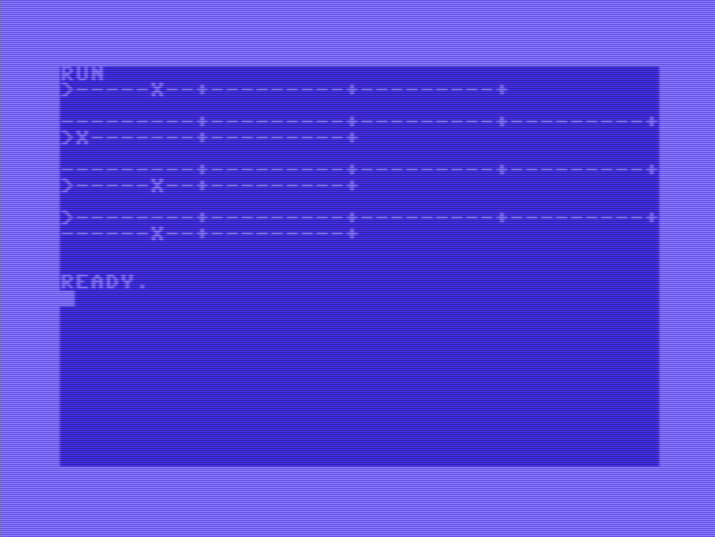
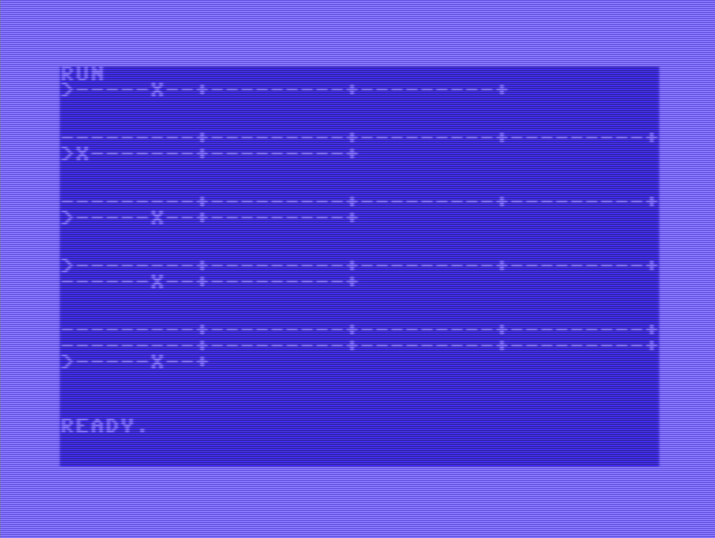
added rowsvslines-nl

diff --git a/rowsvslines/rovsvslines-nl.md b/rowsvslines/rovsvslines-nl.md
@@ -1,0 +1,291 @@
+[![MCC](https://github.com/maarten-pennings/C64howto/blob/main/MCC/mcc240x160.png)](https://github.com/maarten-pennings/C64howto/tree/main/MCC#overview)
+
+Maarten Pennings MCC#04 
+
+
+# Rijen en regels
+
+Dit artikel is een verkorte Nederlandse versie van een Engels artikel.
+Dat bevat meer details en bijvoorbeeld ook source files.
+
+> [https://github.com/maarten-pennings/C64howto/blob/main/rowsvslines/readme.md](https://github.com/maarten-pennings/C64howto/blob/main/rowsvslines/readme.md). 
+
+
+## Introductie
+
+Regels in een Commodore 64 BASIC programma magen 80 karakters lang zijn. 
+Niet langer. Het scherm van de C64 bestaat uit 40 kolommen en 25 rijen.
+Een programma _regel_ die langer is dan 40 karakters is verdeeld over twee 
+scherm _rijen_. Dat twee rijen een regel vormen is niet een eigenschap van 
+BASIC; het is een eigenschap van de (programmeer) omgeving. Ik noem het 
+in dit artikel een eigenschap van de _terminal_ (de code in de ROM die 
+het scherm beheert en bijvoorbeeld het scrollen implementeert).
+
+In dit artikel bekijken we hoe de terminal met rijen en regels omgaat.
+
+Ik ga in dit artikel proberen het wordt rij te gebruiken voor een scherm rij 
+en het woord regel voor een logische (programma of ge`PRINT`te) regel.
+
+
+## Tab
+
+We beginnen ons onderzoek met een analyse van de `TAB()` functie.
+Die blijkt kennis te hebben van rijen en regels in de terminal.
+
+De `TAB(X)` functie is geen functie zoals `SIN(X)`. `TAB(X)` kan alleen 
+in de context van een `PRINT` statement gebruikt worden. Het verplaatst 
+de cursor dan naar kolom `X` van de huidige regel (tellend vanaf 0).
+De vergelijkbare functie `SPC(X)` is _relatief_; die verschuift de cursor `X` 
+posities vanaf de huidige. `TAB(X)` springt naar aan _absolute_ positie: 
+naar kolom `X`. Helaas (vind ik) weigert `TAB(X)` terug te springen. 
+Als de cursor in kolom 30 staat, dan heeft een `TAB(25)` geen effect.
+
+
+We proberen het volgende programma.
+
+```basic
+100 UP$=CHR$(145)
+110 A10$="---------+"
+120 A30$=A10$+A10$+A10$
+130 A60$=A30$+A30$
+140 :
+200 PRINT A30$
+210 PRINT UP$;">";TAB(6);"X"
+220 PRINT:PRINT
+230 :
+300 PRINT A60$
+310 PRINT UP$;">";TAB(6);"X"
+320 PRINT:PRINT
+330 :
+400 PRINT A60$
+410 PRINT UP$;">";TAB(46);"X"
+420 PRINT:PRINT
+430 :
+500 PRINT A60$
+510 PRINT UP$;UP$;">";TAB(46);"X"
+520 PRINT:PRINT
+530 :
+600 PRINT A60$;A30$
+610 PRINT UP$;">";TAB(6);"X"
+620 PRINT:PRINT
+```
+
+Het programma begin met het definiëren van de string `UP$` die de cursor 
+een rij omhoog beweegt. Daarna definieert het strings met 10, 30 en 60 
+karakters (streepjes).
+
+Het programma voert vijf tests uit, die alle vijf hetzelfde patroon volgen.
+Eerst `PRINT` het een regel met streepjes (zie programma regels 200, 
+300, 400, 500 en 600). Merk op dat de `PRINT` niet afsluit met een `;`. Dit 
+betekent dat na de `PRINT` de cursor naar de eerste kolom van de volgende rij 
+gaat. 
+
+De volgende regel van de test (210, 310, 410, 510 en 610) stuurt de cursor een 
+rij omhoog; print een `>` ter oriëntering, springt naar een `TAB()` positie 
+en print daar een `X`. Twee witregels (220, 320, 420, 520 en 620) scheiden 
+de tests.
+
+Dit is de uitvoer van het programma.
+
+![Output of the TAB program](tab1.png)
+
+De eerste test heeft geen verrassingen. Hij print 30 streepjes, schuift de 
+cursor omhoog naar de rij met 30 streepjes, en met een `TAB(6)` verschijnt er
+een `X` in kolom 6 (tellend vanaf 0).
+
+De tweede test was voor mij een verrassing. Hij print 60 streepjes; dat is 
+een regel bestaande uit 2 scherm rijen. regel 310 verschuift de cursor een 
+rij omhoog (zie de `>`). Dit betekent (zo bleek) dat de cursor op kolom 40 
+van de _regel_ staat. Een `TAB(6)` zou terug springen, maar dat doet `TAB` 
+nooit; de `TAB` instructie wordt genegeerd. De cursor verplaatst niet; 
+de `X` verschijnt meteen na de `>`.
+
+Om de kolom-40 hypothese te testen bevat de derde test een `TAB(46)`.
+Deze test print ook 60 streepjes (twee scherm rijen), en verschuift de cursor 
+een rij omhoog (zie de `>`). De cursor staat weer op kolom 40 van de tweerijige 
+regel. De `TAB(46)` wordt uitgevoerd (46 is immers groter dan 40), die 
+verschuift de cursor 6 kolommen; daar komt de `X`.
+
+De vierde test is vrijwel hetzelfde als de derde. Het verschil is dat na het 
+printen van de 60 streepjes, de cursor _twee_ in plaats van _een_ rij omhoog 
+wordt geschoven (zie de `>`). De cursor is dan in kolom 0 van de regel. 
+De `TAB(46)` schuift de cursor naar kolom 46, dat wil zeggen naar kolom 6 op 
+de tweede regel. Daar wordt de `X` geprint.
+
+De vijfde test laat zien dat de terminal geen regels van 3 rijen kan hebben.
+Nadat er 80 (van de 90) streepjes geprint zijn begint de terminal een verse 
+regel. Op het scherm staat dus een regel van twee rijen gevolgd door een regel 
+van een rij. De test schuift de cursor een rij omhoog, en geeft het commando 
+`TAB(6)`, niet `TAB(126)`.
+
+De conclusie is: **de terminal houdt bij welke (twee) scherm rijen samen een logische regel vormen**.
+
+Ten slotte nog een detail. Een `TAB(X)` springt naar kolom `X` in de huidige 
+regel, maar alleen als `X` groter of gelijk is aan de huidige cursor positie.
+Met andere woorden er is een _minimum_ voor `X`, Tot mijn verassing is er geen 
+_maximum_ voor `X`. Een `TAB(86)` verschuift de cursor naar de derde rij en 
+een `TAB(126)` naar de vierde. Er is alleen een technisch maximum, `X` moet in 
+een byte (8 bits) passen en is dus maximaal 255.
+
+
+## Scrollen
+
+Het was natuurlijk al lang bekend dat de C64 terminal kan _scrollen_. Als 
+het scherm vol is, zorgen extra `PRINT`s dat de bestaande regels omhoog 
+scrollen (de bovenste vallen weg), en de nieuwe worden onderaan bijgevoegd.
+Wat ik me nooit zo gerealiseerd had: scrollen gaat per regel, niet per rij.
+
+Het volgende programma heeft twee regels die op een scherm rij passen 
+(regels 100 en 120), en een regel die over twee rijen verspreid staat 
+(regel 110). 
+
+```basic
+100 PRINT "HELLO, WORLD!"
+110 PRINT "THIS IS A LINE THAT SPANS TWO SREEN ROWS"
+120 PRINT "SHORT AGAIN"
+```
+
+Dit programma runnen we niet, we `LIST`en het en drukken dan meerder malen 
+op RETURN. Het plaatje laat een serie screenshots; tussen twee screenshots
+drukken we steeds op RETURN. Met rode blokken (links boven in elke screenshot) 
+hebben we aangegeven of een regel uit een of twee rijen bestaat.
+De serie screenshots begin met de cursor op de onderste rij.
+
+![Repeatedly pressing RETURN for the SCROLL program](scroll1-6.png)
+
+Wat we tussen screenshot 1 en 2 en tussen 2 en 3 is dat de RETURN het scherm 
+een rij omhoog scrollt.
+
+Dat verandert bij de RETURN tussen screenshot 3 and 4. In screenshot 3 staat 
+een tweerijige regel bovenaan. De terminal scrollt nu twee rijen omhoog zodat 
+de hele regel verdwijnt. Merk ook een bijzonderheid op onderaan het scherm:
+de cursor is daar ook een regel omhoog geschoven.
+
+De conclusie: **scrollen is niet per rij maar per regel** (bovenaan het scherm).
+
+Dit effect is ook te zien bij het 10 PRINT programma
+
+```basic
+10 PRINT CHR$(205.5+RND(1));:GOTO 10
+```
+
+Dit programma print schuine streep na schuine streep, alles op één regel 
+(de `PRINT` heeft immers een `;`). De terminal ondersteunt echter geen regels 
+langer dan 80 karakters. Als het 81 karakter geprint wordt begin the terminal
+een nieuwe regel. De terminal is dus gevuld met logische regels van 80 
+karakters, elke verdeeld over 2 rijen. Dit betekent dat elke keer als 
+de onderste regel vol is, het scherm _twee_ regels scrollt.
+
+
+## De _line link_ tabel
+
+Hoe weet de terminal welke rijen samen een regel vormen?
+Die informatie blijkt bijgehouden te worden in de _line link_ tabel.
+Die staat op adressen $00D9-$00F2.
+
+De _line link_ tabel heeft een byte per scherm rij.
+Bit 7 van dat byte is de _first flag_.
+Deze vlag is 1 als die rij het eerste deel is van een regel (of zelfs de hele regel bevat).
+Deze vlag is 0 als die rij het tweede deel is van een regel.
+
+De eerste rij heeft zijn byte op $00D9 (217) staan.
+De tweede staat op $00DA (218), ... en de 25ste staat op $00F1 (241).
+Het byte op $00F2 (242) is waarschijnlijk nodig om de scroll implementatie 
+te vergemakkelijken.
+
+De byte bevat twee _nibbles_.
+De bovenste _nibble_ bevat alleen de _first flasg_, de overige 3 bits zijn 0.
+De _nibble_ heeft dus waarde 8 voor "eerste deel of hele regel" en 
+waarde 0 voor "tweede deel van de regel".
+De onderste _nibble_ negeren we. Het bevat het pagina nummer van het screen 
+memory waar die rij is opgeslagen. Bijvoorbeeld, de eerste rij staat op $0400,
+dus het onderste nibble van de eerste rij is 4.
+
+Het volgende programma laat de _line link_ tabel zien.
+
+Het eerste deel van het programma print regels met schuine streepjes, net 
+als het 10 PRINT programma. Sommige regels zijn minder dan 1 rij lang, andere 
+beslaan tot wel 4 rijen. Aan het begin van elke regel print het programma 
+een letter (`A`, `B`, ...) zodat we goed kunnen zien waar de logische regels 
+beginnen.
+
+Regel 110 initialiseert de _random number generator_ zodat de uitvoer steeds
+hetzelfde is. Verwijder die regel als je dat niet wilt. 
+
+> Dit programma is met `petcat` afgedrukt: vandaar geen hoofdletters.
+> Het bevat wel de speciale tekens zoals `{home}`, `{down}` en `{rvon}`.
+
+```basic
+100 rem print lines with random length
+110 c=rnd(-123)
+120 for i=0 to 13
+130 :print
+140 :print chr$(65+i);
+150 :for c=0 to rnd(1)*40*3.5
+160 ::print chr$(205.5+rnd(1));
+170 :next c
+180 next i
+190 :
+200 rem show line link info for rows
+210 d$="{home}{right}{right}{down}{down}{down}{down}{down}{down}{down}{down}{down}{down}{down}{down}{down}{down}{down}{down}{down}{down}{down}{down}{down}{down}{down}{down}{down}{down}"
+220 for i=0 to 24
+230 :l=peek(217+i):rem line link row r
+240 :lh=int(l/16):ll=l and 15
+250 :print left$(d$,i+3);"{rvon}";lh;ll;"{rvoff}";
+260 next i:print "{home}"
+270 get a$:if a$="" then 270
+```
+
+Het interessante deel is het tweede deel, regels 200-270 die de _line link_ 
+tabel afdrukken nadat het scherm gevuld is. Er is een `FOR` loop (regel 220) 
+die  over alle rijen itereert (`I` van 0 tot 24). Op regel 230 wordt de 
+byte voor de `I`-de rij uit de _link link_ tabel gehaald.
+Regel 240 splitst de byte in bovenste _nibble_ (`LH`) en onderste nibble `LL`.
+ 
+Regel 210 construeert een constante string `D$` die gebruikt wordt om 
+de cursor op rij `I` te plaatsen. dat gebeurt op regel 250, waar de 
+bovenste and onderste _nbble_ in _reverse video_ worden geprint.
+ 
+Regel 270 wacht op een toets, die het programma beëindigd.
+De `print"{home}"` op regel260 voorkomt een scroll.
+
+Dit is de uitvoer van het programma.
+
+![The output of LINELINKTABLE](linelinktable1.png)
+
+We zien dat regel A kort is, hij past op een regel.
+De bovenste _nibble_ is inderdaad 8.
+
+Regel B is ongeveer 90 karakters lang. Hij beslaat 3 rijen.
+De eerste rij is de eerste helft van een regel, dus bovenste _nibble_ is 8.
+De tweede rij is de tweede helft van een regel, dus bovenste _nibble_ is 0.
+De derde rij is het derde deel van regel B. Maar omdat de terminal geen regels 
+langer dan 80 ondersteunt, is hier een nieuwe regel begonnen.
+Het is dus de eerste (en enige deel) van een regel, dus bovenste _nibble_ is 8.
+  
+
+## Regelmatige scroll in 10 PRINT
+
+Het is ook mogelijk om te _schrijven_ naar de _line link_ tabel.
+We kunnen een lange regel (van twee rijen) doormidden breken door voor de 
+tweede regel de bovenste _nibble_ op 8 te zetten. 
+
+We voegen een `POKE` toe die dat doet. 
+Hij zet de _first flag_ aan voor de tweede rij, 
+en knipt daarmee de tweede rij los van de eerste.
+
+```basic
+10 PRINTCHR$(205.5+RND(1));:POKE218,128:GOTO 10
+```
+
+Als je die programma runt krijg je een regelmatiger scroll van een rij.
+Zonder de `POKE` krijg je steeds een scroll van twee regels.
+
+
+Merk op dat de `POKE` de onderste _nibble_ ook overschrijft.
+Veiliger zou zijn `POKE 218,PEEK(218) OR 128` maar dat is langzamer,
+en de huidige code lijkt geen zichtbaar effect te hebben.
+De rij scrollt snell uit het zicht.
+
+
+(end)

diff --git a/rowsvslines/readme.md b/rowsvslines/readme.md
@@ -7,6 +7,9 @@ a feature of the environment; or should I say of the C64 "terminal".
 
 In this article we have a look at how C64 treats rows and lines.
 
+There is a summary in [Dutch](rowsvslines-nl.md).
+
+
 
 ## Hello program
 
@@ -83,31 +86,35 @@ The program `TAB` demonstrates `tab()`.
 140 :
 200 print a30$
 210 print up$;">";tab(6);"x"
-220 print
+220 print:print
 230 :
 300 print a60$
 310 print up$;">";tab(6);"x"
-320 print
+320 print:print
 330 :
 400 print a60$
 410 print up$;">";tab(46);"x"
-420 print
+420 print:print
 430 :
 500 print a60$
 510 print up$;up$;">";tab(46);"x"
-520 print
+520 print:print
+530 :
+600 print a60$;a30$
+610 print up$;">";tab(6);"x"
+620 print:print
 ```
 
 The program begins by defining a string `UP$` that moves the cursor one row up.
 Next it defines a string of 10, 30 and 60 dashes.
 
-This program runs four tests. Each test it prints a line (of 30 or 60 dashes), 
-see lines 200, 300, 400, and 500. Note that the print does not end with a 
+This program runs four tests. Each test it prints a line (of dashes), 
+see lines 200, 300, 400, 500, and 600. Note that the print does not end with a 
 semicolon so the cursor moves to the first position on the next line. Next, 
 the test moves the cursor back up to the just printed line, prints a `>` for 
 reference, jumps to a tab position and prints an `X`, see lines 210, 310, 410, 
-and 510. A empty line (lines 220, 320, 420, and 520) separates a test from the 
-next one.
+510, and 620. Two empty line (lines 220, 320, 420, 520, and 620) separate a test 
+from the next one.
 
 ![Output of the TAB program](tab1.png)
 
@@ -125,9 +132,15 @@ the cursor is moved one row up. Now program line 410 tabs to position 46, which
 is 6 positions right of 40. So the cursor moves to position 46 of the 
 _two-row line_ and the `X` is printed.
 
-The third fragment is a similar test. Here, after printing 60 dashes, two rows, 
+The fourth fragment is a similar test. Here, after printing 60 dashes, two rows, 
 program line 510 moves _two rows_ up. So the cursor is in column 0 of the line. 
 A `tab(46)` moves to column 46, which is column 6 on the second row.
+
+The fifth test shows that a line can not span three rows. After printing 80 
+(of the 90) dashes, the terminal starts a new line. The screen contains one line 
+consisting of two rows followed by one line consisting of one row. This 
+test moves one row up and runs a `TAB(6)`, not a `TAB(126)`, because the 
+terminal forces the third row to be a fresh line.
 
 In other words **the terminal remembers which rows form one line.**
 
@@ -305,7 +318,7 @@ Line 210 constructs a constant string `D$`, used for positioning the cursor
 on column 2 of any row. Line 250 uses `D$` to print `LH` and `LL` 
 (in reverse video) on row `I`.
 
-Line 250 waits for a key press, ending the 
+Line 270 waits for a key press, ending the 
 program, leading to `READY`, the `print"{home}"` on line 260 prevents a scroll.
 
 ![The output of LINELINKTABLE](linelinktable1.png)
